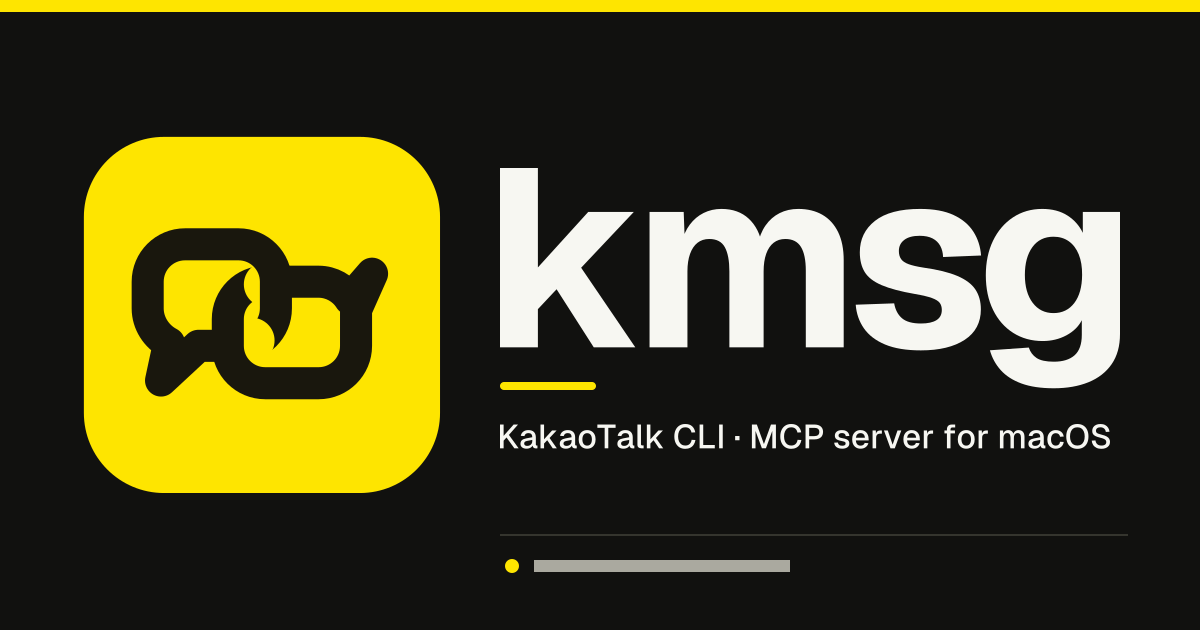
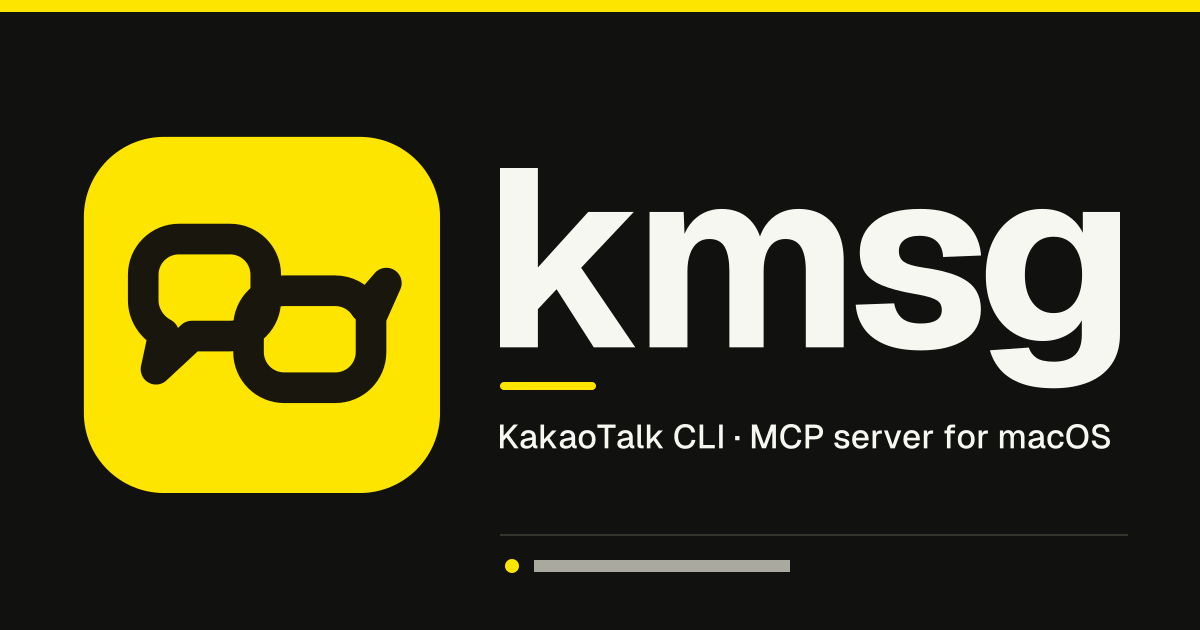
fix(brand): refine connected bubbles open bridge

Changed region(s): [[0.0925, 0.3317, 0.3392, 0.6333], [0.2158, 0.6333, 0.2775, 0.6635]]

diff --git a/tools/brand/generate_brand_assets.py b/tools/brand/generate_brand_assets.py
@@ -68,24 +68,16 @@ def symbol_markup(
     *,
     prefix: str,
     stroke: int = STROKE,
-    gap_radius: int = 68,
     transform: str | None = None,
 ) -> str:
-    left_mask = f"{prefix}-left-mask"
-    right_mask = f"{prefix}-right-mask"
+    _ = prefix
     inner = f"""
-<defs>
-  <mask id="{left_mask}" maskUnits="userSpaceOnUse" x="0" y="0" width="1024" height="1024">
-    <rect width="1024" height="1024" fill="#FFFFFF"/>
-    <circle cx="512" cy="592" r="{gap_radius}" fill="#000000"/>
-  </mask>
-  <mask id="{right_mask}" maskUnits="userSpaceOnUse" x="0" y="0" width="1024" height="1024">
-    <rect width="1024" height="1024" fill="#FFFFFF"/>
-    <circle cx="556" cy="424" r="{gap_radius}" fill="#000000"/>
-  </mask>
-</defs>
-<path d="{RIGHT_PATH}" fill="none" stroke="{color}" stroke-width="{stroke}" stroke-linecap="round" stroke-linejoin="round" mask="url(#{right_mask})"/>
-<path d="{LEFT_PATH}" fill="none" stroke="{color}" stroke-width="{stroke}" stroke-linecap="round" stroke-linejoin="round" mask="url(#{left_mask})"/>""".strip()
+<g transform="translate(20 46) scale(.86)">
+  <g transform="translate(90 50)">
+    <path d="{RIGHT_PATH}" fill="none" stroke="{color}" stroke-width="{stroke}" stroke-linecap="round" stroke-linejoin="round"/>
+  </g>
+  <path d="{LEFT_PATH}" fill="none" stroke="{color}" stroke-width="{stroke}" stroke-linecap="round" stroke-linejoin="round"/>
+</g>""".strip()
     if transform:
         return f'<g transform="{transform}">\n{inner}\n</g>'
     return inner
@@ -94,7 +86,7 @@ def symbol_markup(
 def app_icon_markup(*, prefix: str, transform: str | None = None) -> str:
     content = f"""
 <rect x="32" y="32" width="960" height="960" rx="216" fill="{YELLOW}"/>
-{symbol_markup(INK, prefix=f"{prefix}-symbol", transform="translate(24 48) scale(.9)")}""".strip()
+{symbol_markup(INK, prefix=f"{prefix}-symbol")}""".strip()
     if transform:
         return f'<g transform="{transform}">\n{content}\n</g>'
     return content
@@ -175,13 +167,13 @@ def signature_markup(
     word_color: str,
 ) -> tuple[str, int]:
     word_scale = 0.82
-    word_x = 900
+    word_x = 760
     word_y = 110
     width = math.ceil(word_x + word_width * word_scale + 80)
     symbol = symbol_markup(
         symbol_color,
         prefix=f"{prefix}-mark",
-        transform="translate(-191 -271) scale(1.154)",
+        transform="translate(-91 -121) scale(.868)",
     )
     content = f"""
 {symbol}
@@ -254,7 +246,7 @@ def review_board_svg(
         symbol_color=YELLOW,
         word_color=PAPER,
     )
-    signature_scale = min(0.30, 610 / signature_width)
+    signature_scale = 220 / signature_width
     social = social_markup(
         word_paths,
         word_width,
@@ -285,16 +277,16 @@ def review_board_svg(
 <text x="832" y="385" fill="{MUTED}" font-family="Arial, sans-serif" font-size="12" text-anchor="middle">MONO</text>
 <text x="1054" y="385" fill="{MUTED}" font-family="Arial, sans-serif" font-size="12" text-anchor="middle">REVERSE</text>
 
-<rect x="510" y="430" width="710" height="212" rx="30" fill="#FFFDF5"/>
+<rect x="510" y="430" width="710" height="240" rx="30" fill="#FFFDF5"/>
 <text x="540" y="470" fill="{MUTED}" font-family="Arial, sans-serif" font-size="14" font-weight="700">HORIZONTAL SIGNATURE</text>
-<rect x="540" y="492" width="650" height="58" rx="16" fill="#EEEADF"/>
-<g transform="translate(560 495) scale({signature_scale:.6f})">{light_signature}</g>
-<rect x="540" y="560" width="650" height="58" rx="16" fill="{DARK}"/>
-<g transform="translate(560 563) scale({signature_scale:.6f})">{dark_signature}</g>
+<rect x="540" y="492" width="650" height="74" rx="16" fill="#EEEADF"/>
+<g transform="translate(560 496) scale({signature_scale:.6f})">{light_signature}</g>
+<rect x="540" y="576" width="650" height="74" rx="16" fill="{DARK}"/>
+<g transform="translate(560 580) scale({signature_scale:.6f})">{dark_signature}</g>
 
-<rect x="60" y="674" width="1160" height="286" rx="30" fill="#FFFDF5"/>
-<text x="90" y="715" fill="{MUTED}" font-family="Arial, sans-serif" font-size="14" font-weight="700">SOCIAL PREVIEW · 1200 × 630</text>
-<g transform="translate(90 742) scale(.344)">{social}</g>
+<rect x="60" y="700" width="1160" height="260" rx="30" fill="#FFFDF5"/>
+<text x="90" y="740" fill="{MUTED}" font-family="Arial, sans-serif" font-size="14" font-weight="700">SOCIAL PREVIEW · 1200 × 630</text>
+<g transform="translate(90 760) scale(.30)">{social}</g>
 <text x="550" y="786" fill="{INK}" font-family="Arial, sans-serif" font-size="18" font-weight="700">Core idea</text>
 <text x="550" y="820" fill="{MUTED}" font-family="Arial, sans-serif" font-size="15">Two directional speech loops form one bridge.</text>
 <text x="550" y="852" fill="{INK}" font-family="Arial, sans-serif" font-size="18" font-weight="700">Priority surfaces</text>
@@ -309,10 +301,10 @@ def size_board_svg(samples: dict[int, Path], legacy_32: Path) -> str:
     for size, x in zip([16, 24, 32, 64, 128], x_positions):
         sample = samples[size]
         actual_items.append(
-            f'<image href="{data_uri(sample)}" x="{x - size / 2}" y="205" width="{size}" height="{size}"/>'
+            f'<image href="{data_uri(sample)}" x="{x - size / 2}" y="{232 - size / 2}" width="{size}" height="{size}"/>'
         )
         actual_items.append(
-            f'<text x="{x}" y="294" fill="{MUTED}" font-family="Arial, sans-serif" font-size="13" text-anchor="middle">{size}px</text>'
+            f'<text x="{x}" y="314" fill="{MUTED}" font-family="Arial, sans-serif" font-size="13" text-anchor="middle">{size}px</text>'
         )
 
     enlarged_items: list[str] = []
@@ -403,7 +395,6 @@ def main() -> None:
                 INK,
                 prefix="small",
                 stroke=SMALL_STROKE,
-                gap_radius=60,
             ),
             width=1024,
             height=1024,

diff --git a/docs/superpowers/specs/2026-08-16-kmsg-connected-bubbles-brand-design.md b/docs/superpowers/specs/2026-08-16-kmsg-connected-bubbles-brand-design.md
@@ -30,11 +30,11 @@
 
 ### 3.1 의미
 
-Connected Bubbles는 서로 다른 방향을 보는 두 말풍선 loop가 중앙에서 interlock되는 구조다.
+Connected Bubbles는 서로 다른 방향을 보는 두 말풍선 loop가 중앙의 짧은 open bridge로 연결되는 구조다.
 
 - 두 말풍선: 사용자와 KakaoTalk, 또는 AI agent와 사용자
 - 반대 방향의 꼬리: 양방향 읽기·전송
-- 중앙 interlock: CLI/MCP가 제공하는 안정적인 bridge
+- 중앙 open bridge: CLI/MCP가 제공하는 안정적인 연결
 - 열린 내부 공간: 메시지 내용과 사용자 통제권
 
 ### 3.2 시각적 성격
@@ -42,7 +42,7 @@ Connected Bubbles는 서로 다른 방향을 보는 두 말풍선 loop가 중앙
 - 친근함: 큰 corner radius와 완만한 곡선
 - 기술적 신뢰: 일정한 stroke와 정렬된 geometry
 - 절제: flat vector, 최대 두 색
-- 독립성: KakaoTalk의 단일 말풍선 silhouette를 복제하지 않고 이중 interlock 구조를 사용
+- 독립성: KakaoTalk의 단일 말풍선 silhouette를 복제하지 않고 이중 loop와 bridge 구조를 사용
 
 ### 3.3 금지 요소
 
@@ -76,15 +76,15 @@ Connected Bubbles는 서로 다른 방향을 보는 두 말풍선 loop가 중앙
 - body corner radius: 112px
 - Left tail: body의 좌하단에서 바깥쪽으로 104px 연장
 - Right tail: body의 우상단에서 바깥쪽으로 104px 연장
-- 두 body의 중심 간 offset: x 240px, y 112px
+- 두 body의 중심 간 offset: x 330px, y 162px
 - 내부 counter의 최소 폭: 176px
 
-두 outline은 중앙에서 두 번 교차한다. 한 교차점에서는 left loop를 전면에, 다른 교차점에서는 right loop를 전면에 배치해 chain처럼 상호 연결된 관계를 만든다. 후면 stroke는 교차점 중심에서 stroke 폭의 1.35배 길이만큼 clip해 겹침을 명확히 한다.
+Right loop는 left loop 기준 X축 +330px, Y축 +162px에 배치한다. 두 outline은 mask나 clip 없이 중앙에서 짧은 solid bridge를 형성한다. 전체 symbol group은 `translate(20 46) scale(.86)`으로 optical centering하며, circular cutout이나 교차 mask는 사용하지 않는다.
 
 ### 4.3 Small-size correction
 
 - 32px 이상: master geometry 그대로 사용
-- 16–24px: stroke를 104px equivalent로 보정하고, 교차부 clip 길이를 stroke 폭의 1.15배로 줄인다.
+- 16–24px: stroke를 104px equivalent로 보정하고 bridge offset은 유지한다.
 - 16px에서 두 counter 중 하나라도 2px 미만이 되면 실패로 판정한다.
 - pixel hinting을 위한 수동 직선화는 허용하지만 전체 silhouette와 tail 방향은 바꾸지 않는다.
 
@@ -105,7 +105,7 @@ Connected Bubbles는 서로 다른 방향을 보는 두 말풍선 loop가 중앙
 - light background 위 yellow text는 금지하고 `#756600`을 사용한다.
 - dark background 위 primary symbol은 `#FEE500` 또는 `#F7F7F2`를 사용한다.
 - symbol 한 개 안에 세 가지 이상의 색을 사용하지 않는다.
-- 색으로만 두 말풍선을 구분하지 않는다. interlock geometry가 관계를 설명해야 한다.
+- 색으로만 두 말풍선을 구분하지 않는다. open-bridge geometry가 관계를 설명해야 한다.
 
 ## 6. Wordmark와 signature
 
@@ -219,7 +219,7 @@ Review board는 다음을 한 화면에 포함한다.
 1. app icon의 `#FEE500`/`#19170D` 조합은 WCAG 계산 기준 14.04:1의 명도 대비를 유지한다.
 2. paper theme에서 yellow는 본문 text color로 사용하지 않는다. `#756600`/`#F7F5ED` 조합은 5.26:1 이상을 유지한다.
 3. logo image의 `alt`는 맥락에 따라 `kmsg` 또는 빈 문자열을 사용한다. 옆에 `kmsg` text가 있으면 중복 낭독을 막기 위해 `alt=""`를 유지한다.
-4. symbol은 색상 없이 mono 상태에서도 두 말풍선과 interlock이 구분되어야 한다.
+4. symbol은 색상 없이 mono 상태에서도 두 말풍선과 중앙 bridge가 구분되어야 한다.
 5. 16·24·32px raster preview를 실제 픽셀 크기로 검토한다. 확대 preview만으로 승인하지 않는다.
 6. favicon은 dark·paper browser chrome 모두에서 외곽이 사라지지 않아야 한다.
 
@@ -238,7 +238,7 @@ Review board는 다음을 한 화면에 포함한다.
 
 - 1280×1024 review board를 Telegram에 직접 첨부한다.
 - 32px header crop을 1×로 확인한다.
-- 16·24·32·64·128px size row에서 tail과 interlock을 검사한다.
+- 16·24·32·64·128px size row에서 tail과 bridge를 검사한다.
 - dark background, paper background, yellow app icon을 모두 확인한다.
 - 기존 로고 대비 새로운 mark가 mascot이 아닌 message bridge로 읽히는지 검토한다.
 
@@ -254,7 +254,7 @@ Review board는 다음을 한 화면에 포함한다.
 다음 조건을 모두 만족해야 완료다.
 
 - Connected Bubbles가 두 말풍선과 중앙 bridge로 인지된다.
-- 32px에서 두 counter, 두 tail, interlock이 구분된다.
+- 32px에서 두 counter, 두 tail, 중앙 bridge가 구분된다.
 - primary, mono, reverse가 같은 silhouette를 유지한다.
 - 220px horizontal signature에서 `kmsg`가 즉시 읽힌다.
 - dark·paper theme에서 symbol이 배경과 분리된다.

diff --git a/docs/superpowers/plans/2026-08-16-kmsg-connected-bubbles-implementation.md b/docs/superpowers/plans/2026-08-16-kmsg-connected-bubbles-implementation.md
@@ -171,7 +171,7 @@ LEFT_PATH = "M312 304H472C534 304 584 354 584 416V496C584 558 534 608 472 608H35
 RIGHT_PATH = "M552 416H712C750 416 786 436 806 468L872 392L824 500V608C824 670 774 720 712 720H552C490 720 440 670 440 608V528C440 466 490 416 552 416Z"
 ```
 
-Use `fill="none"`, round cap/join, and two masks. The left mask removes a 136px-diameter crossing window centered at `(512, 592)`; the right mask removes a 136px-diameter crossing window centered at `(556, 424)`. Draw right then left so each loop is frontmost at one crossing.
+Use `fill="none"` with round cap/join. Offset the right loop by `(90, 50)` inside a shared `translate(20 46) scale(.86)` optical-normalization group. The overlapping strokes form one short solid bridge; do not add masks, clips, or circular cutouts.
 
 - [ ] **Step 3: Convert Geist `kmsg` glyphs to paths**
 
@@ -342,7 +342,7 @@ The staged deletion of `assets/kmsg-logo.jpg` must be included in this commit.
 Use `vision_analyze` on each 1280×1024 PNG. Verify:
 
 - two speech bubbles and opposite tails are distinguishable
-- both crossings read as an interlock, not accidental breaks
+- the open bridge reads as an intentional connection, not a knot or accidental break
 - 16/24/32px counters remain open
 - app icon is optically centered
 - primary, mono, reverse share the same silhouette
@@ -356,7 +356,7 @@ Start the existing site preview only if required by the repository's normal work
 
 - [ ] **Step 3: Fix generator constants, regenerate, and re-run tests if QA fails**
 
-Allowed corrections are stroke, mask center/radius, optical translation, wordmark scale, and card spacing. Do not introduce gradients, shadows, mascot elements, or a third color.
+Allowed corrections are stroke, loop offset, optical translation, wordmark scale, and card spacing. Do not introduce masks, gradients, shadows, mascot elements, or a third color.
 
 - [ ] **Step 4: Commit visual corrections only when files changed**
 

diff --git a/assets/brand/README.md b/assets/brand/README.md
@@ -1,6 +1,6 @@
 # kmsg Brand Assets
 
-Connected Bubbles는 kmsg의 양방향 message bridge 역할을 나타내는 공식 symbol system입니다. 두 말풍선 loop와 반대 방향의 tail, 중앙 interlock을 모든 variant에서 동일하게 유지합니다.
+Connected Bubbles는 kmsg의 양방향 message bridge 역할을 나타내는 공식 symbol system입니다. 두 말풍선 loop와 반대 방향의 tail, 중앙 open bridge를 모든 variant에서 동일하게 유지합니다.
 
 ## 재생성
 
@@ -34,7 +34,7 @@ PNG rendering에는 `rsvg-convert`가 필요합니다. macOS Homebrew 기준 설
 - 16–24px에서는 `kmsg-symbol-small-ink.svg` geometry를 사용합니다.
 - light background 위 yellow text는 사용하지 않습니다. Text accent는 `#756600`을 사용합니다.
 - gradient, shadow, outline effect, mascot face를 추가하지 않습니다.
-- symbol의 tail 방향과 interlock 순서를 변경하지 않습니다.
+- symbol의 tail 방향과 두 loop 사이 bridge offset을 변경하지 않습니다.
 - Release SVG는 `<text>`와 외부 image·font reference 없이 path로만 배포합니다.
 
 ## 비제휴 고지
